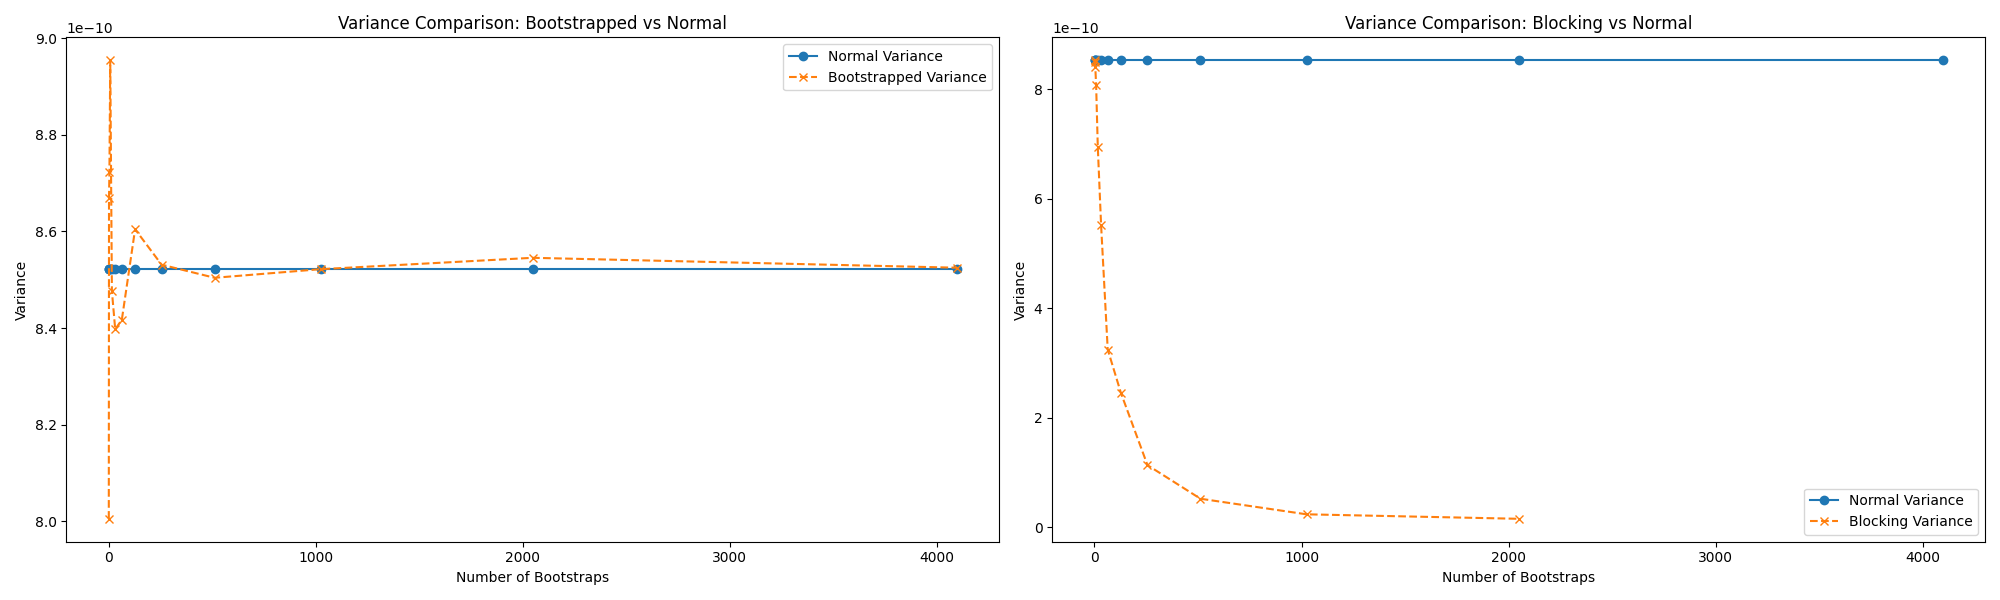
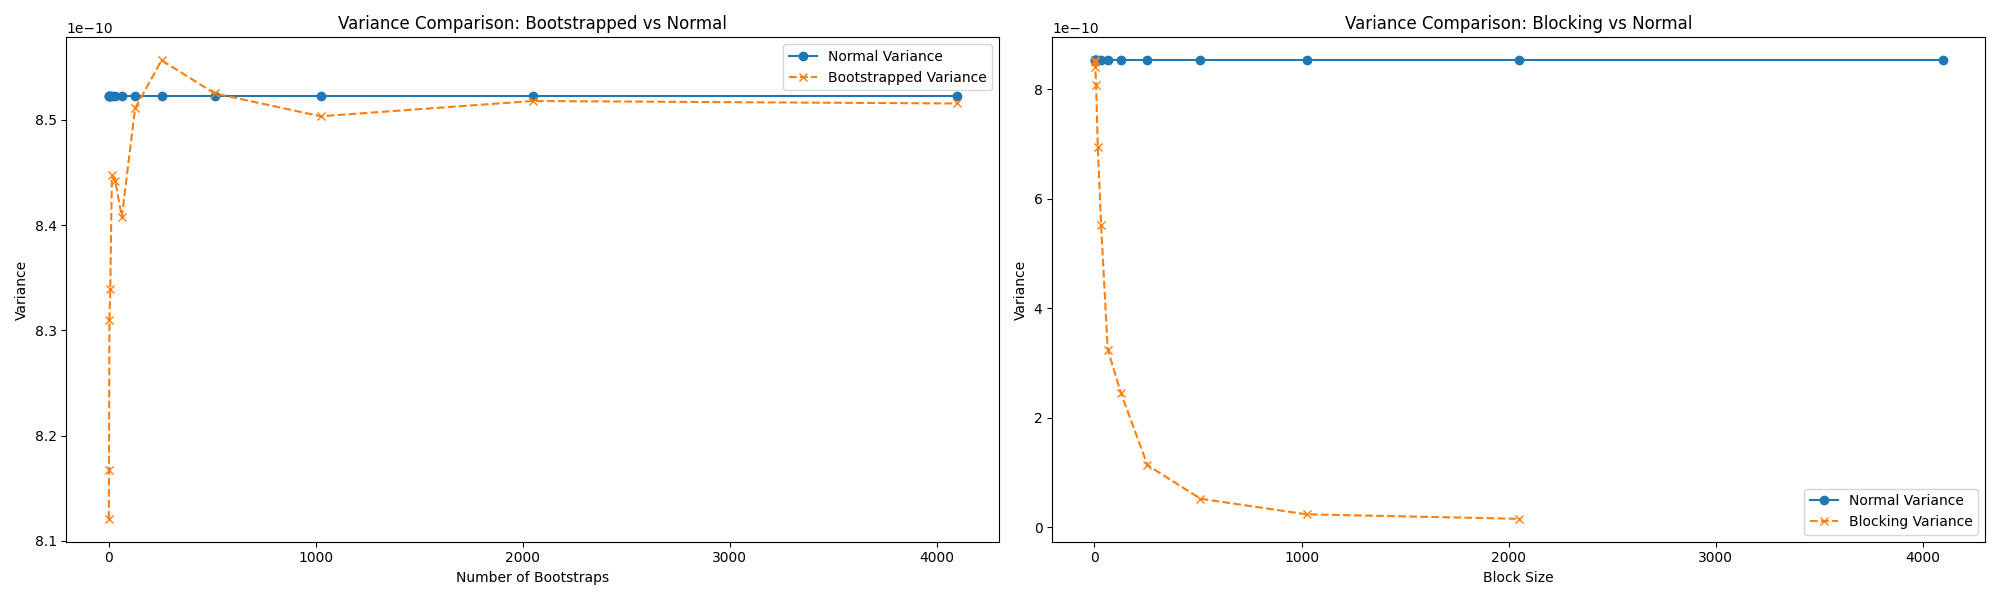
m

diff --git a/src/simulation_scripts/bootstrap.py b/src/simulation_scripts/bootstrap.py
@@ -82,7 +82,7 @@ ax[0].legend()
 # Plot 2: Blocking Variance vs Normal Variance on the second subplot
 ax[1].plot(block_sizes, variances_bl, label="Normal Variance", marker='o', linestyle='-')
 ax[1].plot(block_sizes, variances_block, label="Blocking Variance", marker='x', linestyle='--')
-ax[1].set_xlabel("Number of Bootstraps")
+ax[1].set_xlabel("Block Size")
 ax[1].set_ylabel("Variance")
 ax[1].set_title("Variance Comparison: Blocking vs Normal")
 ax[1].legend()
@@ -92,13 +92,21 @@ plt.tight_layout()
 
 # Save the figure as a single image
 plt.savefig("variance_comparisons.png")
+plt.show()
 
+# clean the figure and start new plot
+plt.clf()
+
+#change the fig size for the plot
 
 #COmpare bootstrapping and blocking
+plt.figure(figsize=(12,8))
 plt.plot(n_boot_values, variances_boot ,  label="Variance with bootstrap", marker='o', linestyle='-')
-plt.plot(block_sizes, variances_block ,  label="Variance with Blocking", marker='x', linestyle='--')
+plt.plot(n_boot_values, variances_block ,  label="Variance with Blocking", marker='x', linestyle='--')
 plt.xlabel("Number of Bootstraps  / Block sizes")
 plt.ylabel("Variance")
+
 plt.title("Variance Comparison: Bootstrapping vs Blocking")
 plt.legend()
-plt.savefig("variance_comparisons_boot_blocking.png")
+plt.savefig("boot_vs_blocking.png")
+plt.show()
